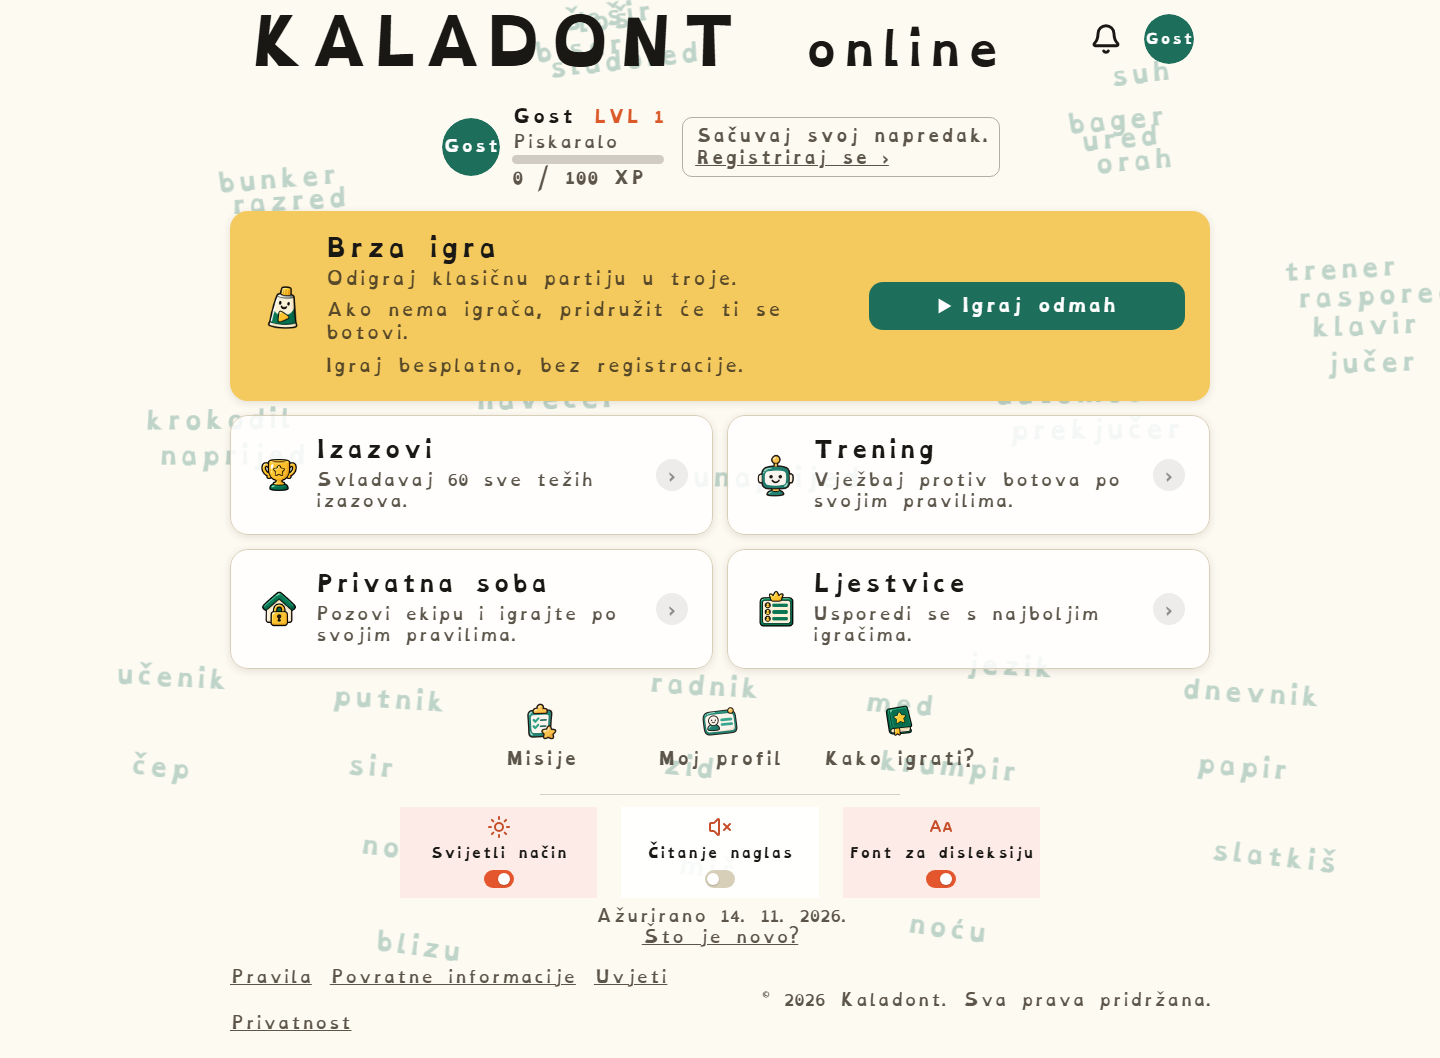
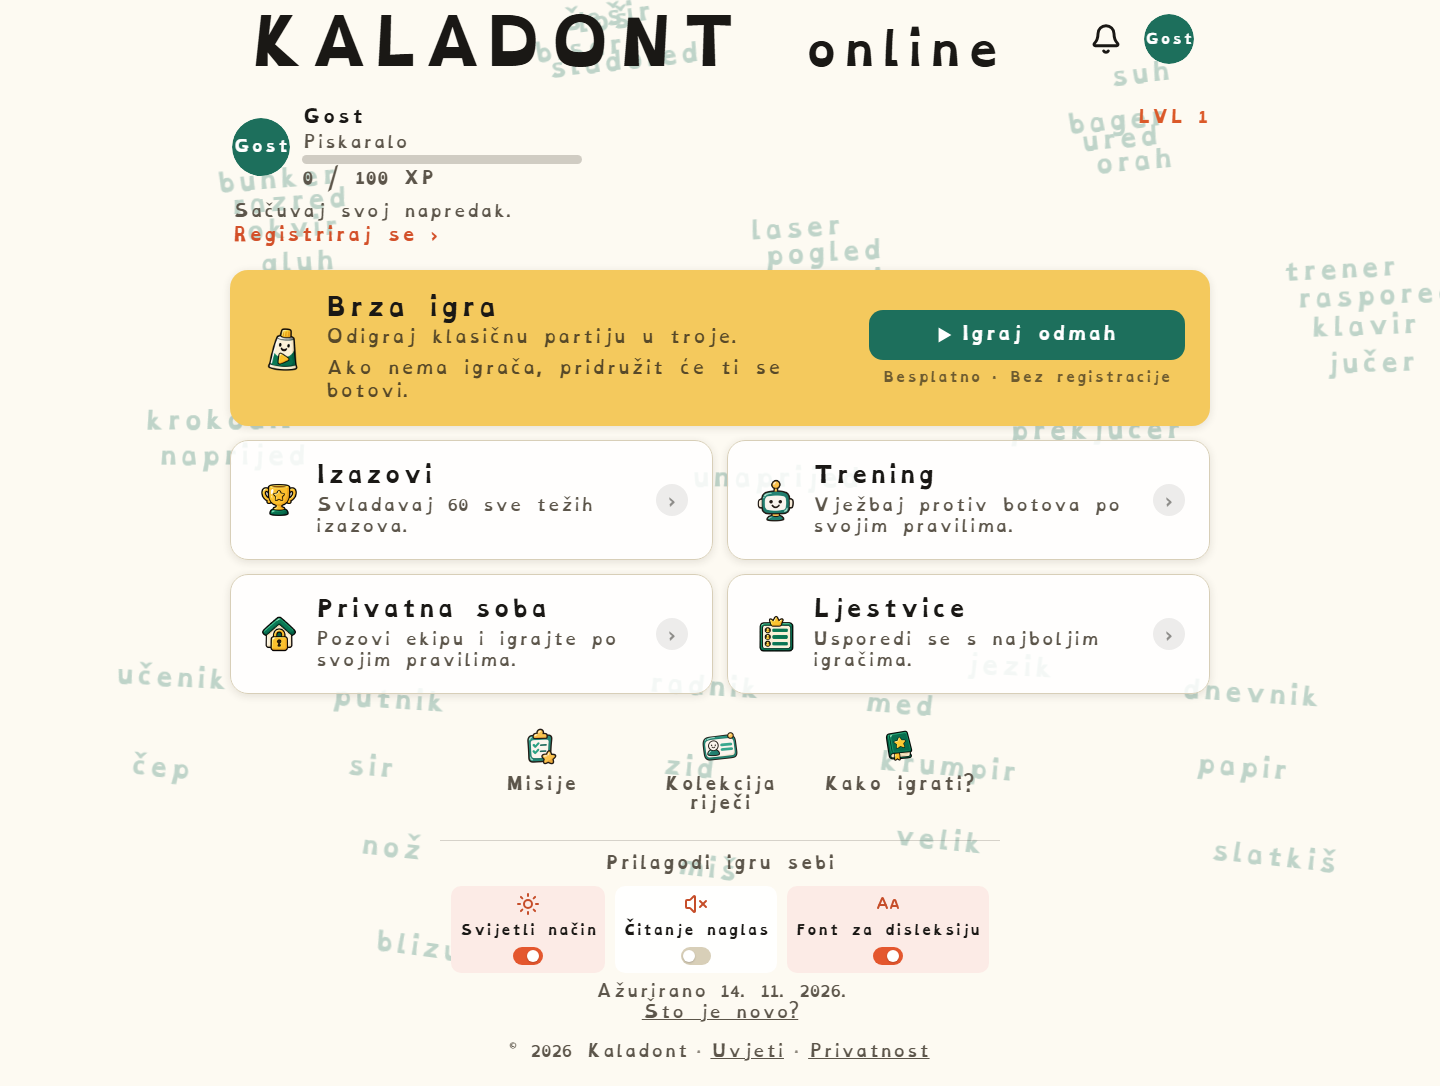
test(web): pokrij regresije redizajnirane naslovnice
Azuriraj dokumentaciju i Umami popis, popravi tip za dijeljeni store misija te pripremi screenshot skriptu.

diff --git a/aplikacije/web/src/routes/+page.svelte b/aplikacije/web/src/routes/+page.svelte
@@ -35,6 +35,7 @@
   const misijeStore = dohvatiStanjeMisijaStore();
   const misijeBadge = $derived(natpisBadgaMisija(misijeStore.aktivne));
   const misijeBadgeAria = $derived(ariaBadgaMisija(misijeStore.aktivne));
+  const godinaCopyright = new Date().getFullYear();
 
   const FOCUS_REFRESH_MS = 45_000;
   let zadnjiFocusRefresh = 0;
@@ -326,7 +327,7 @@
 
   <footer class="landing-footer">
     <p class="copyright">
-      © {new Date().getFullYear()} Kaladont
+      © {godinaCopyright} Kaladont
       <span class="razdjelnik" aria-hidden="true">·</span>
       <a href="/uvjeti">Uvjeti</a>
       <span class="razdjelnik" aria-hidden="true">·</span>

diff --git a/aplikacije/web/src/lib/stanje-misija.svelte.ts b/aplikacije/web/src/lib/stanje-misija.svelte.ts
@@ -46,7 +46,8 @@ export async function osigurajStanjeMisija(opcije: { forsaj?: boolean } = {}): P
   if (!opcije.forsaj && status === 'spreman' && stanje) return stanje;
 
   status = 'ucitavanje';
-  const zahtjev = (async () => {
+  let zahtjev!: Promise<StanjeMisijaDto | null>;
+  zahtjev = (async () => {
     try {
       const odgovor = await dohvatiStanjeMisija();
       stanje = odgovor;

diff --git a/docs/05-ux-ui/vizualni-identitet.md b/docs/05-ux-ui/vizualni-identitet.md
@@ -41,12 +41,12 @@ Pravila upotrebe:
 
 ## Naslovnica (glavni izbornik)
 
-- Jedan raspored za gosta i registriranog: žuta **Brza igra**, krem kartice Izazovi / Trening / Privatna soba / Ljestvice, zatim tri ravnomjerna prečaca Misije / Moj profil / Kako igrati? (ikona iznad teksta).
-- Horizontalni XP sažetak (avatar · nadimak · rang · LVL · traka) iznad grida; gostu sibling CTA „Sačuvaj svoj napredak.” → `/registracija`. Napredak izazova na kartici samo kad je broj završenih > 0.
-- Ispod prečaca: diskretni razdjelnik i **brze postavke** (ikona + Svijetli/Tamni način, Čitanje naglas, Font za disleksiju) — iste lokalne postavke kao u profilu, bez novog API-ja.
-- Novosti („Ažurirano … · Što je novo?”) neposredno iznad footera, izvan `<footer>`.
+- Jedan raspored za gosta i registriranog: žuta **Brza igra**, krem kartice Izazovi / Trening / Privatna soba / Ljestvice, zatim tri ravnomjerna prečaca Misije / Kolekcija riječi / Kako igrati? (ikona iznad teksta).
+- Horizontalni XP sažetak (avatar · nadimak · rang · LVL · traka) iznad grida; gostu sibling CTA „Sačuvaj svoj napredak.” (ili personalizirani tekst) → `/registracija`. Napredak izazova na kartici samo kad je broj završenih > 0.
+- Ispod prečaca: diskretni razdjelnik „Prilagodi igru sebi” i **brze postavke** (ikona + Svijetli način, Čitanje naglas, Font za disleksiju) — iste lokalne postavke kao u profilu, bez novog API-ja.
+- Novosti („Ažurirano … · Što je novo?”) neposredno iznad footera, izvan `<footer>`. Footer: © godina · Uvjeti · Privatnost.
 - Prirodni vertikalni scroll je dopušten; CTA se ne skriva na niskom viewportu. Maksimalna širina grida oko 980 px.
-- Profilni dropdown služi računu (Moj profil, Uredi avatar, Postavke, prijava/odjava) — bez Misija, Ljestvica i Pravila.
+- Profilni dropdown: gost (Moj profil, Postavke, prijava/registracija); registriran (Moj profil, Uredi avatar, Postavke, Povratne informacije, odjava) — bez Misija, Ljestvica i Pravila.
 
 ## Ton komunikacije
 

diff --git a/docs/05-ux-ui/screenshots-poliranje-naslovnice/README.md b/docs/05-ux-ui/screenshots-poliranje-naslovnice/README.md
@@ -1,12 +1,14 @@
 # Screenshotovi poliranja naslovnice
 
-Snimljeno lokalno 24. 11. 2026. na grani `feat/poliranje-naslovnice` (stvarni UI, ne makete).
+Snimljeno na grani `feat/poliranje-naslovnice` (stvarni UI, ne makete).
 
 | Datoteka | Opis |
 |---|---|
-| `gost-desktop.png` | Gost, desktop 1440×900 — horizontalni profil, CTA registracije, Brza igra |
+| `gost-desktop.png` | Gost, desktop 1440×900 — XP, narančasti CTA, Brza igra, postavke ispod |
 | `gost-mobitel.png` | Gost, 390×844 — mobilni raspored |
 | `gost-desktop-svijetla-disleksija.png` | Gost, desktop — svijetla tema + font za disleksiju |
 | `gost-mobitel-svijetla-disleksija.png` | Gost, mobitel — svijetla tema + font za disleksiju |
+| `gost-dropdown-desktop.png` | Otvoren profilni dropdown gosta (bez Uredi avatar / Povratne) |
+| `gost-dropdown-mobitel.png` | Otvoren profilni dropdown gosta na mobitelu |
 
-Registrirani s napretkom: snimiti na review okruženju s testnim računom.
+Registrirani s XP/izazovima i dropdown registriranog: snimiti na review okruženju s testnim računom.

diff --git a/docs/07-operacije/runbook-umami.md b/docs/07-operacije/runbook-umami.md
@@ -140,7 +140,7 @@ Provjera:
 
 1. `https://kaladont.hr` → DevTools → Network → zahtjevi prema `analitika.kaladont.hr`
 2. Klik **Brza igra** na naslovnici → `naslovnica-brza-igra-klik` (stari `igraj-klik` više se ne šalje s naslovnice; ostaje u tipu radi povijesnih potrošača)
-3. Ostale kartice/prečaci: `naslovnica-izazovi-klik`, `naslovnica-trening-klik`, `naslovnica-privatna-soba-klik`, `naslovnica-ljestvice-klik`, `naslovnica-misije-klik`, `naslovnica-profil-klik`, `naslovnica-pravila-klik`, `naslovnica-novosti-klik`
+3. Ostale kartice/prečaci: `naslovnica-izazovi-klik`, `naslovnica-trening-klik`, `naslovnica-privatna-soba-klik`, `naslovnica-ljestvice-klik`, `naslovnica-misije-klik`, `naslovnica-kolekcija-klik`, `naslovnica-profil-klik`, `naslovnica-pravila-klik`, `naslovnica-novosti-klik`
 4. Automatski `?igraj=1` **nije** klik-event
 5. Klik **Pridruži se zajednici** → `forum-klik-landing`
 6. Na `/o-igri` forum CTA → `forum-klik-o-igri`
